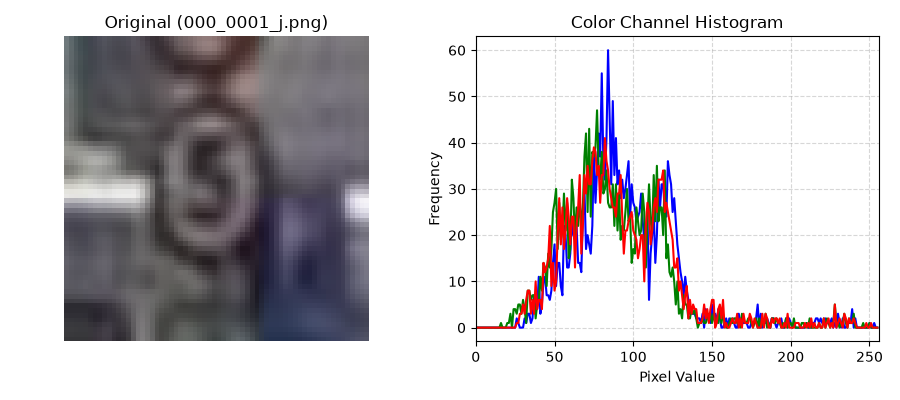
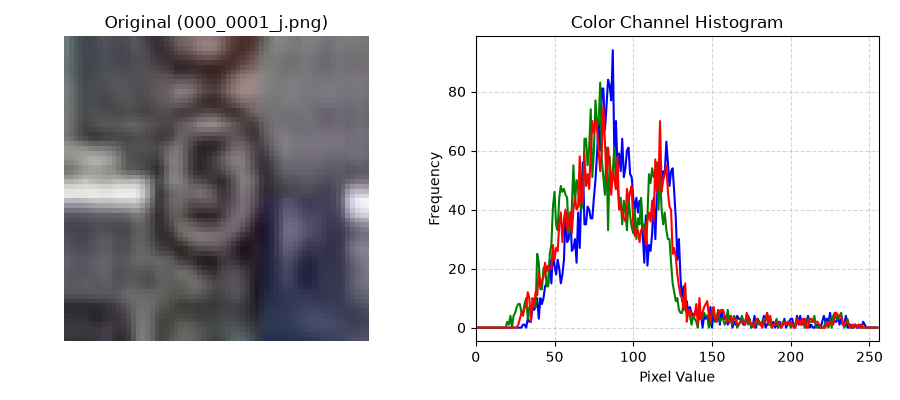
slight tweak of the color histogram code

diff --git a/Coding Environment/feature_extraction_one.py b/Coding Environment/feature_extraction_one.py
@@ -1,91 +1,71 @@
-#coding work from Jonathan
 import os
+import random
 import cv2
 import matplotlib.pyplot as plt
 import numpy as np
-from skimage import exposure
-from skimage.feature import hog
 
 
 def extract_color_histogram(img_bgr, bins=(8, 8, 8)):
     """Converts image to HSV space and calculates a 3D color histogram."""
-    # Convert BGR to HSV for robust color representation under varying light
     hsv = cv2.cvtColor(img_bgr, cv2.COLOR_BGR2HSV)
-
-    # Calculate 3D histogram across H, S, V channels
     hist = cv2.calcHist(
         [hsv], [0, 1, 2], None, bins, [0, 180, 0, 256, 0, 256]
     )
-
-    # Normalize histogram so it is invariant to image size
     cv2.normalize(hist, hist)
-
-    # Flatten matrix to a 1D feature vector
     return hist.flatten()
 
 
-def extract_hog_features(img_bgr):
-    """Resizes image to 64x64, converts to grayscale, and extracts HOG features."""
-    img_resized = cv2.resize(img_bgr, (64, 64))
-    gray = cv2.cvtColor(img_resized, cv2.COLOR_BGR2GRAY)
-
-    features, hog_image = hog(
-        gray,
-        orientations=9,
-        pixels_per_cell=(8, 8),
-        cells_per_block=(2, 2),
-        visualize=True,
-        block_norm="L2-Hys",
-    )
-
-    return features, hog_image, img_resized
-
-
 def process_and_visualize(input_dir, output_dir, num_visualizations=10):
-    """Extracts both Color Histogram and HOG features and plots their visual outputs."""
+    """Processes all images, but selects 10 random images for visualization."""
     if not os.path.exists(output_dir):
         os.makedirs(output_dir)
 
-    image_files = [
+    all_files = [
         f
         for f in os.listdir(input_dir)
         if f.lower().endswith((".jpg", ".png", ".jpeg"))
     ]
 
-    successful_extractions = 0
-    total_images = len(image_files)
+    total_images = len(all_files)
+    if total_images == 0:
+        print("No valid images found in the directory.")
+        return 0, 0
 
-    for idx, filename in enumerate(image_files):
+    # Pick 10 random images for visualization
+    sample_size = min(num_visualizations, total_images)
+    random_samples = set(random.sample(all_files, sample_size))
+
+    successful_extractions = 0
+    viz_count = 0
+
+    for idx, filename in enumerate(all_files):
         img_path = os.path.join(input_dir, filename)
         img = cv2.imread(img_path)
 
         if img is None:
             continue
 
-        # Extract individual feature vectors
-        color_hist_vector = extract_color_histogram(img)
-        hog_vector, hog_image, original_resized = extract_hog_features(img)
-
-        # Concatenate both into a single combined feature vector (for ML models)
-        combined_features = np.hstack([color_hist_vector, hog_vector])
-
+        img_resized = cv2.resize(img, (64, 64))
+        color_hist_vector = extract_color_histogram(img_resized)
         successful_extractions += 1
 
-        # Visualize only the specified number of samples
-        if idx < num_visualizations:
+        # Visualize only if this image was selected in the random sample
+        if filename in random_samples:
+            viz_count += 1
             fig, (ax1, ax2) = plt.subplots(1, 2, figsize=(9, 4))
 
-            # 1. Original Image
+            # Original Image
             ax1.axis("off")
-            ax1.imshow(cv2.cvtColor(original_resized, cv2.COLOR_BGR2RGB))
-            ax1.set_title(f"Original ({filename})")
+            ax1.imshow(cv2.cvtColor(img_resized, cv2.COLOR_BGR2RGB))
+            ax1.set_title(f"Random Sample {viz_count}: {filename}")
 
-            # 2. Color Histogram Plot (Channel breakdown)
+            # Color Channel Histogram
             colors = ("b", "g", "r")
             for i, col in enumerate(colors):
-                hist = cv2.calcHist([img], [i], None, [256], [0, 256])
+                hist = cv2.calcHist([img_resized], [i], None, [256], [0, 256])
                 ax2.plot(hist, color=col)
-                ax2.set_xlim([0, 256])
+
+            ax2.set_xlim([0, 256])
             ax2.set_title("Color Channel Histogram")
             ax2.set_xlabel("Pixel Value")
             ax2.set_ylabel("Frequency")
@@ -93,13 +73,11 @@ def process_and_visualize(input_dir, output_dir, num_visualizations=10):
 
             plt.tight_layout()
             plt.savefig(
-                os.path.join(
-                    output_dir, f"feature_result_{idx+1}_{filename}.png"
-                )
+                os.path.join(output_dir, f"random_sample_{viz_count}.png")
             )
 
             print(
-                f"Displaying Image {idx+1} of {num_visualizations}... Close the window to continue."
+                f"Displaying Random Image {viz_count} of {sample_size} ({filename})... Close window to continue."
             )
             plt.show()
             plt.close()
@@ -107,18 +85,16 @@ def process_and_visualize(input_dir, output_dir, num_visualizations=10):
     return successful_extractions, total_images
 
 
-# --- Main Execution ---
+# Main Execution
 if __name__ == "__main__":
-    # Get absolute directory of this script (Coding Environment)
     SCRIPT_DIR = os.path.dirname(os.path.abspath(__file__))
 
-    # Exact path pointing to 'Coding Environment/dataset/TEST'
     test_input_directory = os.path.join(SCRIPT_DIR, "dataset", "TEST")
     visualization_output_directory = os.path.join(
         SCRIPT_DIR, "feature_visualizations"
     )
 
-    print(f"Processing ALL images in {test_input_directory}...")
+    print(f"Processing images in {test_input_directory}...")
 
     success_count, total = process_and_visualize(
         test_input_directory,
